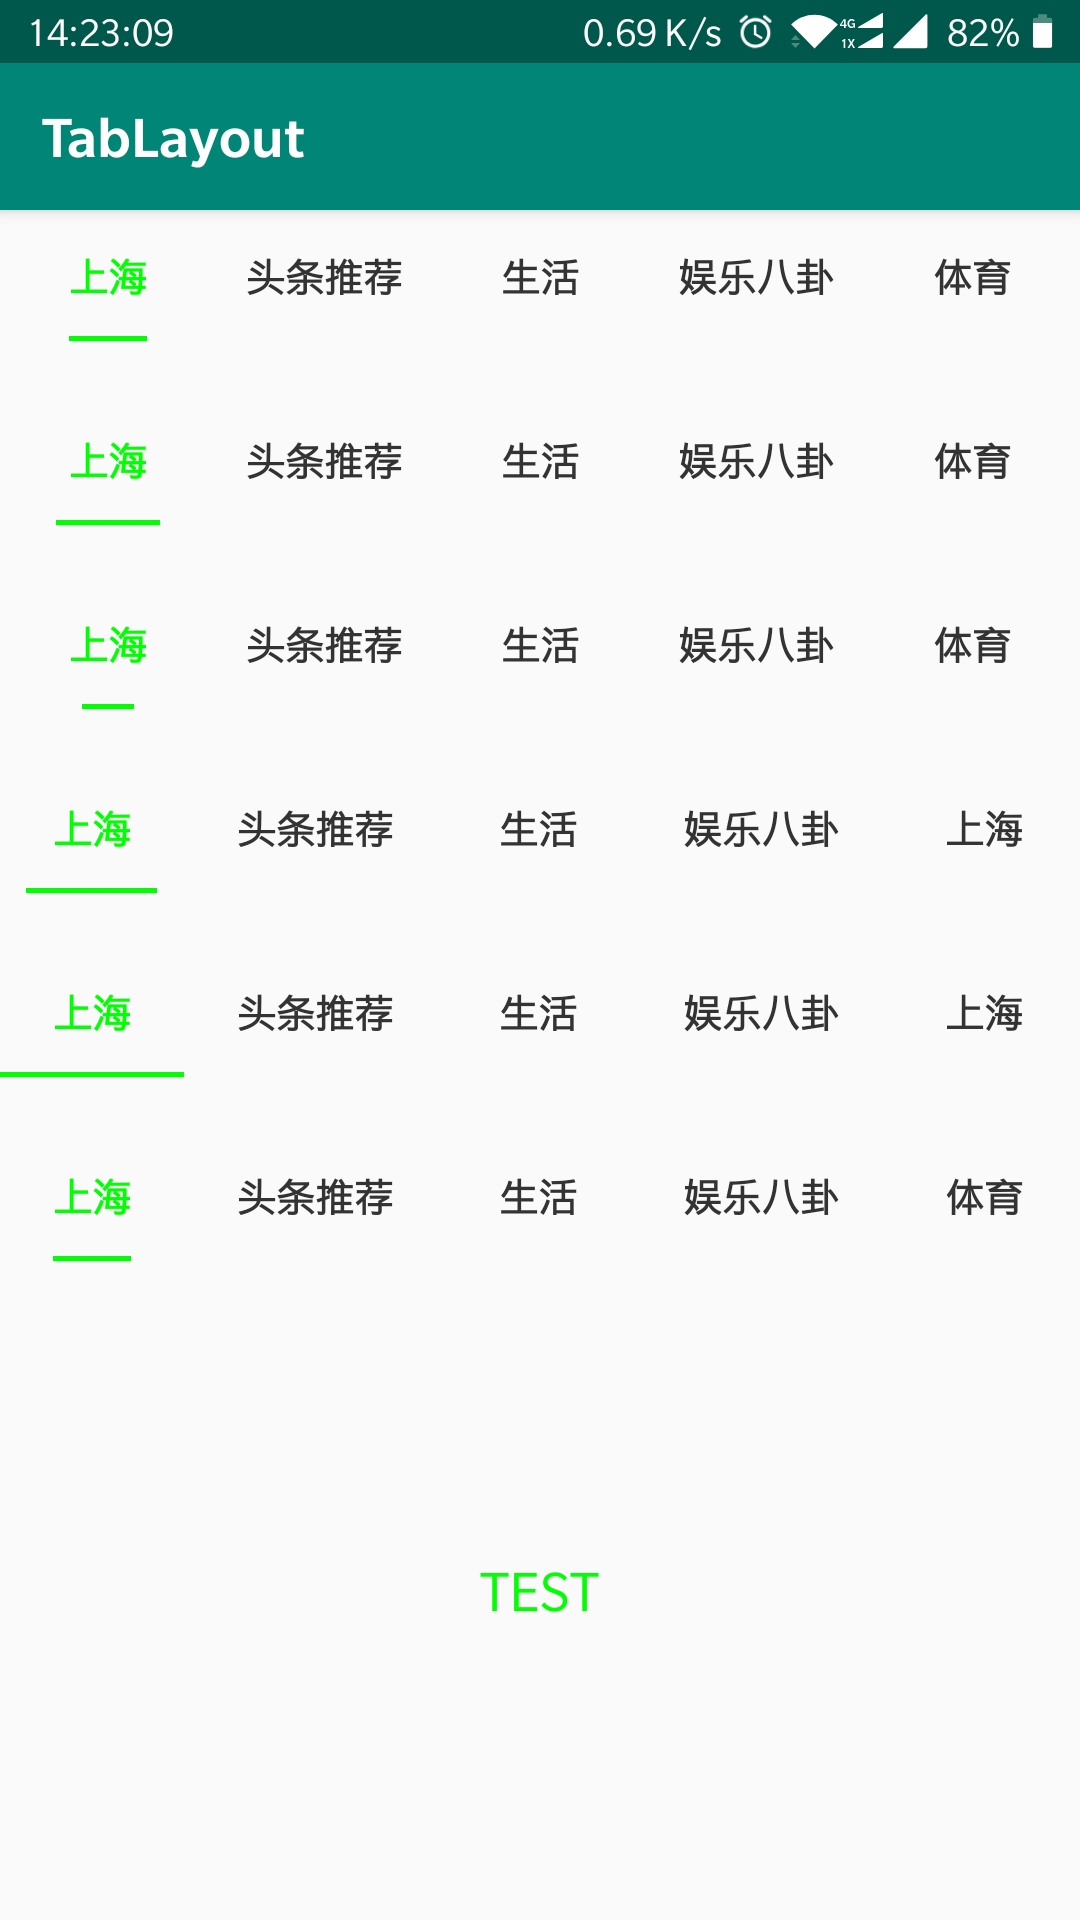
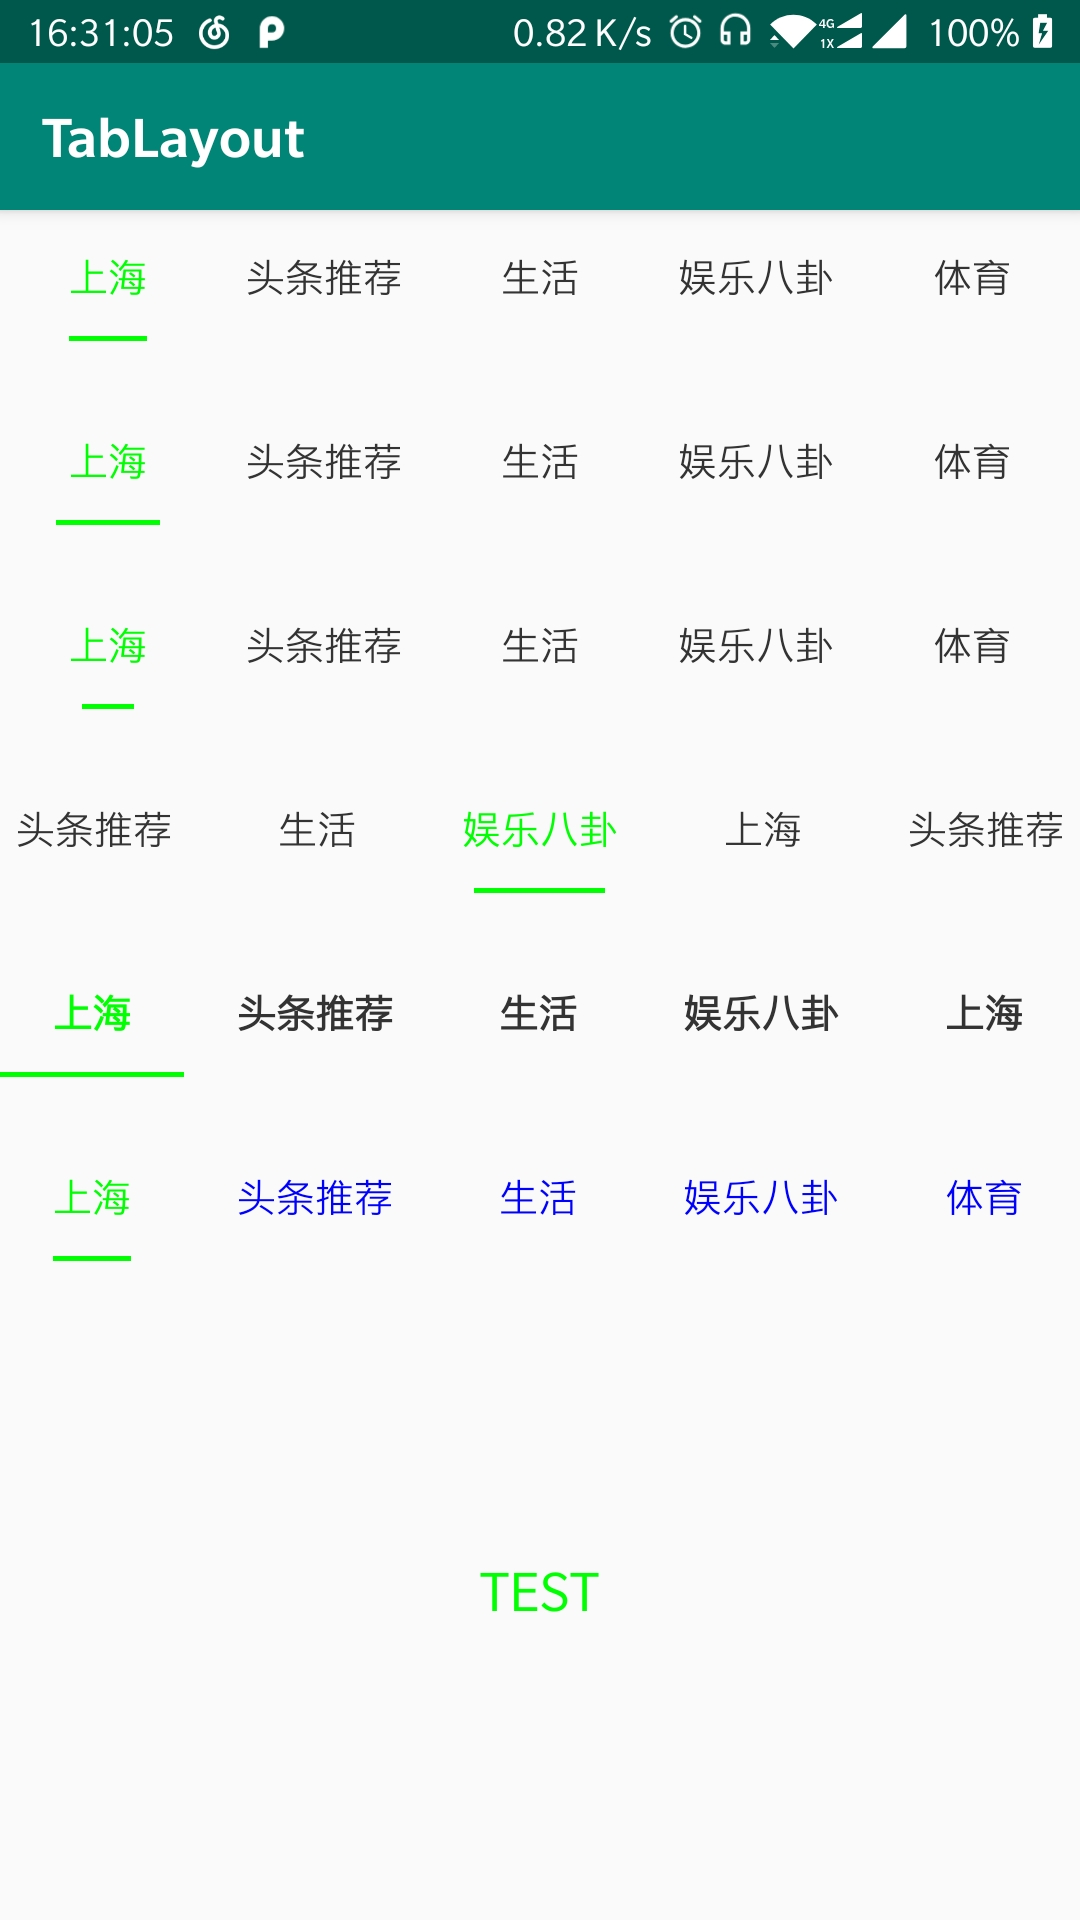
2019-10-23

diff --git a/lib/src/main/java/com/shouzhong/tablayout/TabLayout.java b/lib/src/main/java/com/shouzhong/tablayout/TabLayout.java
@@ -13,7 +13,10 @@ import android.graphics.Paint;
 import android.graphics.drawable.Drawable;
 import android.os.Build;
 import android.text.Layout;
+import android.text.Spannable;
+import android.text.SpannableString;
 import android.text.TextUtils;
+import android.text.style.TypefaceSpan;
 import android.util.AttributeSet;
 import android.util.TypedValue;
 import android.view.Gravity;
@@ -1404,6 +1407,10 @@ public class TabLayout extends HorizontalScrollView {
          */
         @NonNull
         public Tab setText(@Nullable CharSequence text) {
+            if (text != null && text instanceof String) {
+                text = new SpannableString(text);
+                ((SpannableString) text).setSpan(new TypefaceSpan("sans-self"), 0, text.length(), Spannable.SPAN_EXCLUSIVE_EXCLUSIVE);
+            }
             mText = text;
             updateView();
             return this;

diff --git a/README.md b/README.md
@@ -5,7 +5,7 @@
 ![效果图](https://github.com/shouzhong/TabLayout/blob/master/img/1.jpg)
 ## 依赖
 ```
-implementation 'com.shouzhong:TabLayout:1.0.0'
+implementation 'com.shouzhong:TabLayout:1.0.1'
 ```
 ## 属性说明
 
